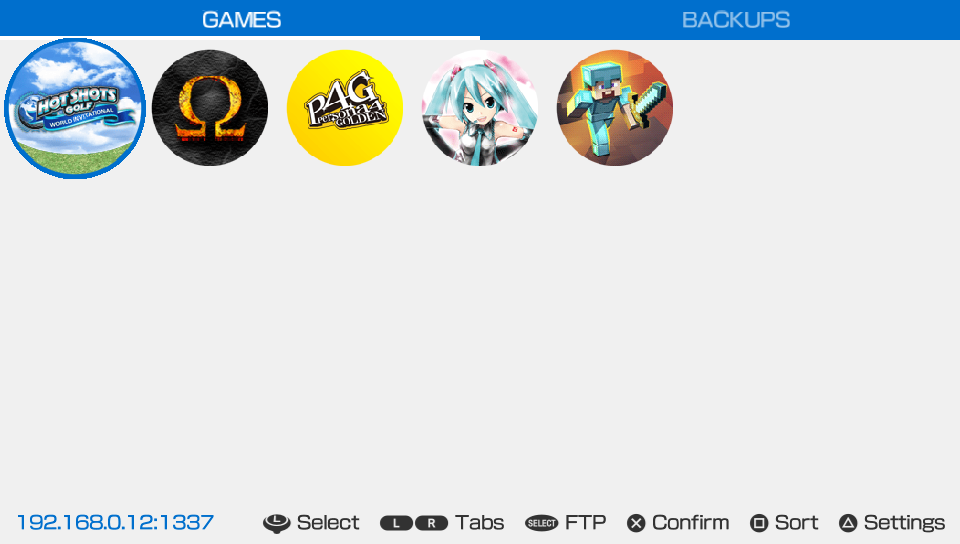
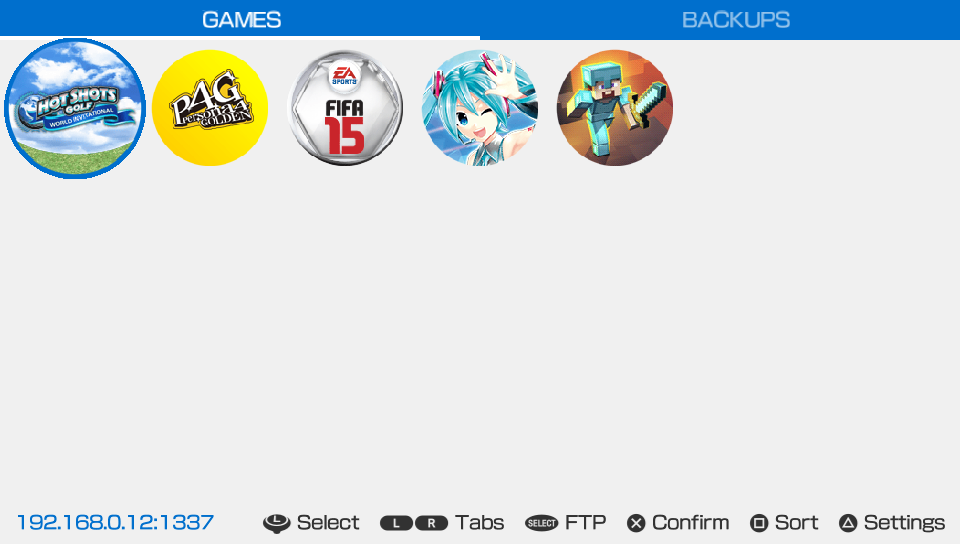
Update (v5.3.0)

Changed region(s): [[0.1562, 0.0938, 0.5625, 0.3125]]

diff --git a/README.md b/README.md
@@ -5,7 +5,7 @@
 Vita Save Manager++ is a fast, highly optimized, and customizable save data manager for the PS Vita. This project is a refactored fork of **Vita Save Manager Plus**.
 <br><br>
 **NOTE: VitaShell modules are required for this application to run. So you need to have VitaShell installed.**<br>
-If VitaShell is not installed in your PS Vita, then copy `kernel.skprx` and `user.suprx` from VitaShell vpk to `ux0:data/vitaSaveManager/`.
+If VitaShell is not installed in your PS Vita, then copy `kernel.skprx` and `user.suprx` from VitaShell VPK to `ux0:data/vitaSaveManager/`.
 
 ## Changelog
 See [CHANGELOG.md](CHANGELOG.md).
@@ -16,7 +16,7 @@ See [CHANGELOG.md](CHANGELOG.md).
 - Bulk delete of all your backups
 - Restore encrypted and decrypted saves
 - Change savefile region
-- Select your prefered device to use as the backup device (`ux0:`, `ur0:`, `uma0:`, `imc0:` or `xmc0:`)
+- Select your prefered device to use as the save/backup device (`ux0:`, `ur0:`, `uma0:`, `imc0:` or `xmc0:`)
 - Toggle FTP and transfer saves
 - Customize UI (choose between Dark/Light Mode, and pick from different accent colors)
 

diff --git a/CHANGELOG.md b/CHANGELOG.md
@@ -1,3 +1,9 @@
+## 5.3.0
+- Add save device support
+- Add few more homebrew save paths
+- Hide games that don't have a save file
+- Fix bugs
+
 ## 5.2.0
 - Add support for homebrew apps & Adrenaline
 - Disable auto suspend on crucial I/O operations and FTP
